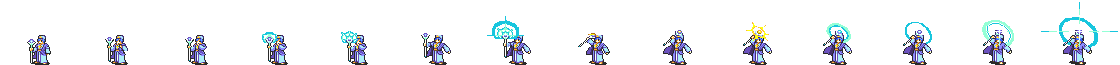
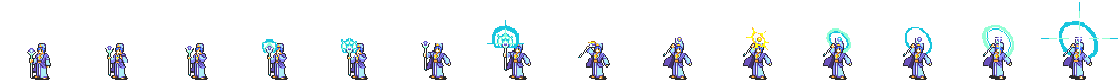
bishop in church

diff --git a/Main.js b/Main.js
@@ -386,18 +386,18 @@ ASSET_MANAGER.downloadAll(function () {
                                         "Come on! Let's go kill stuff!!! YEA!!! There is a secret exit at the back of this cave, I've seen people use it!!"]],
                                            mage_npc_sprites, [new Point(475, 115)], .06, false, [2], "dragon_cave", 1);
     
-    var bishop_sprites = new SpriteSet(new Animation(bishop_spritesheet, 0, 0, 80, 65, 0.05, 1, true, false),
-                                        new Animation(bishop_spritesheet, 0, 0, 80, 65, 0.05, 1, true, false),
-                                        new Animation(bishop_spritesheet, 0, 0, 80, 65, 0.05, 1, true, false),
-                                        new Animation(bishop_spritesheet, 0, 0, 80, 65, 0.05, 1, true, false), null,
-                                        new Animation(bishop_spritesheet, 0, 0, 80, 65, 0.05, 14, false, false), null);
+    var bishop_sprites = new SpriteSet(new Animation(bishop_spritesheet, 0, 0, 80, 80, 0.05, 1, true, false),
+                                        new Animation(bishop_spritesheet, 0, 0, 80, 80, 0.05, 1, true, false),
+                                        new Animation(bishop_spritesheet, 0, 0, 80, 80, 0.05, 1, true, false),
+                                        new Animation(bishop_spritesheet, 0, 0, 80, 80, 0.05, 1, true, false), null,
+                                        new Animation(bishop_spritesheet, 0, 0, 80, 80, 0.05, 14, false, false), null);
     var bishop = new NPC_QUEST(gameEngine, "Celesto", [["Ah, our young hero, Theon, and his new friend the mage, Acele. I have been expecting you.", 
                                                         "I have been watching you as your story unfolds. You are very important, young hero. You will change this world.", 
                                                         "I am a man of the Gods, and it is not noramlly acceptable for me to alter the threads of fate,",
                                                         "but your work here in Arkesia is so important, that I will make this one exception.", 
                                                         "I now bestow upon you a new magical ability, Acele!"],
-                                                       ["Be blessed, young heroes, and stay strong, for your journey is not yet over and the road is long."]], null, [], .05, false, [0,1],
-                                                                    null, "church", 1, [function () {
+                                                       ["Be blessed, young heroes, and stay strong, for your journey is not yet over and the road is long."]], bishop_sprites,
+                                                            [new Point(384, 64)], .05, false, [0, 1], null, "church", 1.8, [function () {
                                                                         this.showDialog();
                                                                     }, function () {
                                                                         if (this.game) {
@@ -422,13 +422,14 @@ ASSET_MANAGER.downloadAll(function () {
                                                                                         this.part++;
                                                                                         // give acele a new ability
                                                                                         // play hit animation
-                                                                                        this.game.animationQueue.push(new Event(this, this.animations.hit, 0, null, null));
+                                                                                        this.game.animation_queue.push(new Event(this, this.animations.hit, 500, null, null));
+                                                                                        this.game.animation_queue.push(new Event(this, this.animations.down, 0, null, null));
                                                                                     } 
                                                                                 }
                                                                                 this.game.next = false;
                                                                             }
                                                                         }
-                                                                    }], 20);
+                                                                    }], -82);
     // Environments 
     // indoor game, map (array, floor then interior, animations, tilesheet, quads, interactables. 
     var house1 = new IndoorEnvironment(gameEngine, [[[1, 2, 3, 4, 1, 2, 3, 4, 1, 2, 3, 4, 1, 2, 3, 4, 1, 2, 3],
@@ -640,6 +641,7 @@ ASSET_MANAGER.downloadAll(function () {
 	gameEngine.addEntity(mountain_woman);
 	gameEngine.addEntity(mountain_villager);
 	gameEngine.addEntity(mage_npc);
+	gameEngine.addEntity(bishop);
 	//gameEngine.addEntity(siren_NPC);
     gameEngine.init(context);
     gameEngine.esc_menu.initHero(warrior);

diff --git a/GameEngine.js b/GameEngine.js
@@ -277,7 +277,7 @@ GameEngine.prototype.draw = function (drawCallBack) {
     for (var i = 1; i < this.entities.length; i++) {
         if (this.entities[i].map_name === this.current_environment && !this.is_battle
             && includes(this.entities[i].quad, this.environment[this.current_environment].curr_quadrant)) {
-            if (Math.abs(this.entities[0].x - (this.entities[i].x - this.entities[i].x_offset)) < 35 && !hero_drawn) {
+            if (Math.abs(this.entities[0].x - (this.entities[i].x - this.entities[i].x_offset)) < 80 && !hero_drawn) {
                 if (this.entities[i].y < (this.entities[0].y + this.entities[i].y_offset)) {
                     this.entities[i].draw(this.context);
                     this.entities[0].draw(this.context);
@@ -303,7 +303,7 @@ GameEngine.prototype.draw = function (drawCallBack) {
 }
 
 GameEngine.prototype.queueActions = function () {
-    if (this.is_battle) {
+    if (this) {
         //Logic to calculate when to time the next animation event
         var event = this.event;
         //if event is null and there is an animation in the queue, set animation to the first item in the queue
@@ -2729,6 +2729,7 @@ EnterChurch = function () {
     this.game.entities[0].x = 448;
     this.game.sound_manager.playSound("door_open");
     this.game.entities[0].y = 352;
+    this.game.entities[0].sight = 80; 
 }
 
 ExitChurch = function () {
@@ -2737,6 +2738,7 @@ ExitChurch = function () {
     this.game.entities[0].x = 525;
     this.game.sound_manager.playSound("door_open");
     this.game.entities[0].y = 300;
+    this.game.entities[0].sight = 35;
 }
 
 EnterHouse2 = function () {
